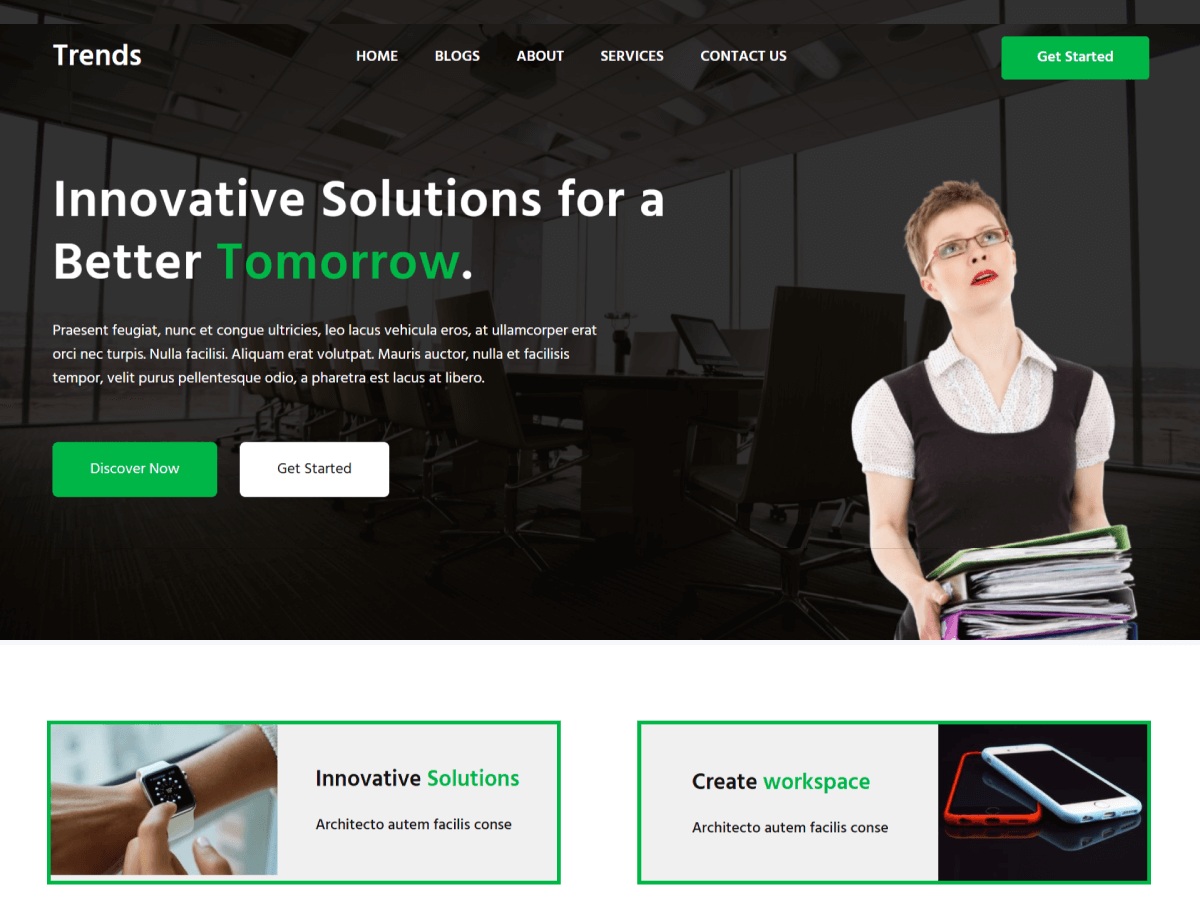
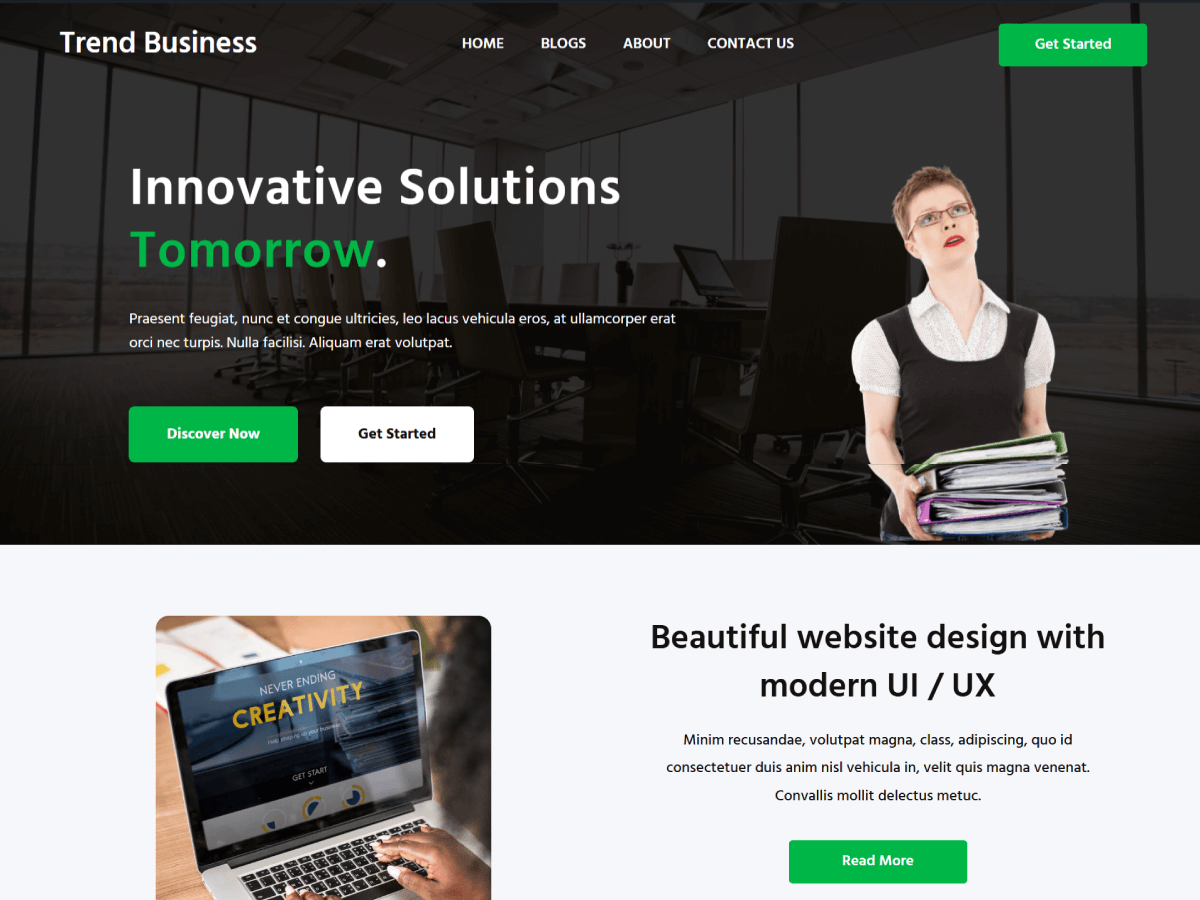
fixed

diff --git a/style.css b/style.css
@@ -7,7 +7,7 @@ Description: Trend Business is a modern, full-site editing WordPress theme desig
 Requires at least: 5.9
 Tested up to: 6.8
 Requires PHP: 7.4
-Version: 1.0.4
+Version: 1.0.5
 License: GNU General Public License v2 or later
 License URI: http://www.gnu.org/licenses/gpl-2.0.html
 Text Domain: trend-business

diff --git a/patterns/banner.php b/patterns/banner.php
@@ -3,52 +3,50 @@
  * Title: Banner
  * Slug: trend-business/banner
  * Categories: trend-business
- *
- * @package Trend Business
+  * @package Trend Business
  * @since 1.0.0
  */
-
 ?>
 <!-- wp:cover {"url":"<?php echo esc_url( get_template_directory_uri() );?>/assets/images/background.jpg","id":336,"dimRatio":80,"isUserOverlayColor":true,"minHeight":577,"minHeightUnit":"px","contentPosition":"center center","sizeSlug":"large","align":"full","style":{"spacing":{"padding":{"top":"0","bottom":"0","left":"0","right":"0"},"margin":{"top":"0","bottom":"0"},"blockGap":"0"},"color":{"duotone":"unset"}},"layout":{"type":"constrained"}} -->
-<div class="wp-block-cover alignfull" style="margin-top:0;margin-bottom:0;padding-top:0;padding-right:0;padding-bottom:0;padding-left:0;min-height:577px"><img class="wp-block-cover__image-background wp-image-336 size-large" alt="" src="<?php echo esc_url( get_template_directory_uri() );?>/assets/images/background.jpg" data-object-fit="cover"/><span aria-hidden="true" class="wp-block-cover__background has-background-dim-80 has-background-dim"></span><div class="wp-block-cover__inner-container"><!-- wp:group {"metadata":{"categories":["trend-business"],"patternName":"trend-business/header","name":"Header Front"},"style":{"spacing":{"padding":{"top":"0","bottom":"0","left":"0","right":"0"},"margin":{"top":"0","bottom":"0"},"blockGap":"0"}},"backgroundColor":"transparent","layout":{"type":"default"}} -->
-<div class="wp-block-group has-transparent-background-color has-background" style="margin-top:0;margin-bottom:0;padding-top:0;padding-right:0;padding-bottom:0;padding-left:0"><!-- wp:group {"align":"full","className":"wb-header-wrapper","style":{"spacing":{"padding":{"right":"var:preset|spacing|40","left":"var:preset|spacing|40","top":"var:preset|spacing|30","bottom":"var:preset|spacing|30"}}},"backgroundColor":"transparent","layout":{"type":"constrained"}} -->
+<div class="wp-block-cover alignfull" style="margin-top:0;margin-bottom:0;padding-top:0;padding-right:0;padding-bottom:0;padding-left:0;min-height:577px"><img class="wp-block-cover__image-background wp-image-336 size-large" alt="" src="<?php echo esc_url( get_template_directory_uri() );?>/assets/images/background.jpg" data-object-fit="cover"/><span aria-hidden="true" class="wp-block-cover__background has-background-dim-80 has-background-dim"></span><div class="wp-block-cover__inner-container"><!-- wp:group {"metadata":{"categories":["trend-business"],"patternName":"trend-business/header","name":"Header Front"},"style":{"spacing":{"padding":{"top":"0","bottom":"0","left":"var:preset|spacing|20","right":"var:preset|spacing|20"},"margin":{"top":"0","bottom":"0"},"blockGap":"0"}},"backgroundColor":"transparent","layout":{"type":"default"}} -->
+<div class="wp-block-group has-transparent-background-color has-background" style="margin-top:0;margin-bottom:0;padding-top:0;padding-right:var(--wp--preset--spacing--20);padding-bottom:0;padding-left:var(--wp--preset--spacing--20)"><!-- wp:group {"align":"full","className":"wb-header-wrapper","style":{"spacing":{"padding":{"right":"var:preset|spacing|40","left":"var:preset|spacing|40","top":"var:preset|spacing|30","bottom":"var:preset|spacing|30"}}},"backgroundColor":"transparent","layout":{"type":"constrained"}} -->
 <div class="wp-block-group alignfull wb-header-wrapper has-transparent-background-color has-background" style="padding-top:var(--wp--preset--spacing--30);padding-right:var(--wp--preset--spacing--40);padding-bottom:var(--wp--preset--spacing--30);padding-left:var(--wp--preset--spacing--40)"><!-- wp:group {"style":{"spacing":{"margin":{"top":"0","bottom":"0"},"padding":{"right":"0","left":"0","top":"0","bottom":"0"}}},"layout":{"type":"flex","flexWrap":"wrap","justifyContent":"space-between"}} -->
-<div class="wp-block-group" style="margin-top:0;margin-bottom:0;padding-top:0;padding-right:0;padding-bottom:0;padding-left:0"><!-- wp:site-title {"style":{"typography":{"fontSize":"32px","fontStyle":"normal","fontWeight":"800"}},"fontFamily":"hind"} /-->
+<div class="wp-block-group" style="margin-top:0;margin-bottom:0;padding-top:0;padding-right:0;padding-bottom:0;padding-left:0"><!-- wp:site-title {"style":{"typography":{"fontSize":"32px","fontStyle":"normal","fontWeight":"700"}},"fontFamily":"hind"} /-->
 
-<!-- wp:navigation {"style":{"typography":{"fontSize":"16px","fontStyle":"normal","fontWeight":"700","lineHeight":"1"},"layout":{"selfStretch":"fit","flexSize":null},"spacing":{"blockGap":"9px"}}} /-->
+<!-- wp:navigation {"ref":4,"style":{"typography":{"fontSize":"16px","fontStyle":"normal","fontWeight":"700","lineHeight":"1"},"layout":{"selfStretch":"fit","flexSize":null},"spacing":{"blockGap":"9px"}}} /-->
 
 <!-- wp:buttons -->
 <div class="wp-block-buttons"><!-- wp:button -->
-<div class="wp-block-button"><a class="wp-block-button__link wp-element-button"><?php echo esc_html__( 'Get Started', 'trend-business' ); ?></a></div>
+<div class="wp-block-button"><a class="wp-block-button__link wp-element-button"><?php echo esc_html__('Get Started', 'trend-business'); ?></a></div>
 <!-- /wp:button --></div>
 <!-- /wp:buttons --></div>
 <!-- /wp:group --></div>
 <!-- /wp:group --></div>
 <!-- /wp:group -->
 
-<!-- wp:columns {"style":{"spacing":{"padding":{"top":"var:preset|spacing|80"}}}} -->
-<div class="wp-block-columns" style="padding-top:var(--wp--preset--spacing--80)"><!-- wp:column {"verticalAlignment":"top","width":"70%"} -->
-<div class="wp-block-column is-vertically-aligned-top" style="flex-basis:70%"><!-- wp:group {"className":"wb-banner-content","style":{"spacing":{"blockGap":"var:preset|spacing|50","padding":{"top":"0","bottom":"0","left":"var:preset|spacing|40","right":"var:preset|spacing|40"}}},"layout":{"type":"constrained"}} -->
+<!-- wp:columns {"style":{"spacing":{"padding":{"top":"var:preset|spacing|80","right":"var:preset|spacing|80","left":"var:preset|spacing|80"},"blockGap":{"top":"var:preset|spacing|20","left":"var:preset|spacing|80"}}}} -->
+<div class="wp-block-columns" style="padding-top:var(--wp--preset--spacing--80);padding-right:var(--wp--preset--spacing--80);padding-left:var(--wp--preset--spacing--80)"><!-- wp:column {"verticalAlignment":"top","width":"70%","style":{"spacing":{"padding":{"right":"var:preset|spacing|70"}}}} -->
+<div class="wp-block-column is-vertically-aligned-top" style="padding-right:var(--wp--preset--spacing--70);flex-basis:70%"><!-- wp:group {"className":"wb-banner-content","style":{"spacing":{"blockGap":"var:preset|spacing|50","padding":{"top":"0","bottom":"0","left":"var:preset|spacing|40","right":"var:preset|spacing|40"}}},"layout":{"type":"constrained"}} -->
 <div class="wp-block-group wb-banner-content" style="padding-top:0;padding-right:var(--wp--preset--spacing--40);padding-bottom:0;padding-left:var(--wp--preset--spacing--40)"><!-- wp:heading {"style":{"typography":{"fontStyle":"normal","fontWeight":"700","fontSize":"3.5rem","lineHeight":"1.2","letterSpacing":"1px"}},"fontFamily":"hind"} -->
-<h2 class="wp-block-heading has-hind-font-family" style="font-size:3.5rem;font-style:normal;font-weight:700;letter-spacing:1px;line-height:1.2"><?php echo esc_html__( 'Innovative Solutions for a Better', 'trend-business' ); ?><mark style="background-color:rgba(0, 0, 0, 0)" class="has-inline-color has-theme-color"> <?php echo esc_html__( 'Tomorrow', 'trend-business' ); ?></mark>.</h2>
+<h2 class="wp-block-heading has-hind-font-family" style="font-size:3.5rem;font-style:normal;font-weight:700;letter-spacing:1px;line-height:1.2"><?php echo esc_html__('Innovative Solutions', 'trend-business'); ?> <mark style="background-color:rgba(0, 0, 0, 0)" class="has-inline-color has-theme-color"><?php echo esc_html__('Tomorrow', 'trend-business'); ?></mark>.</h2>
 <!-- /wp:heading -->
 
 <!-- wp:group {"style":{"spacing":{"blockGap":"0","margin":{"top":"var:preset|spacing|40","bottom":"0"},"padding":{"right":"0","left":"0","top":"0","bottom":"0"}},"typography":{"lineHeight":"1.3"}},"layout":{"type":"constrained","contentSize":"580px","justifyContent":"left"}} -->
 <div class="wp-block-group" style="margin-top:var(--wp--preset--spacing--40);margin-bottom:0;padding-top:0;padding-right:0;padding-bottom:0;padding-left:0;line-height:1.3"><!-- wp:paragraph {"style":{"typography":{"lineHeight":"1.6","fontStyle":"normal","fontWeight":"400"},"spacing":{"margin":{"top":"var:preset|spacing|50","bottom":"var:preset|spacing|70"}}},"fontSize":"small"} -->
-<p class="has-small-font-size" style="margin-top:var(--wp--preset--spacing--50);margin-bottom:var(--wp--preset--spacing--70);font-style:normal;font-weight:400;line-height:1.6"><?php echo esc_html__( 'Praesent feugiat, nunc et congue ultricies, leo lacus vehicula eros, at ullamcorper erat orci nec turpis. Nulla facilisi. Aliquam erat volutpat. Mauris auctor, nulla et facilisis tempor, velit purus pellentesque odio, a pharetra est lacus at libero.', 'trend-business' ); ?></p>
+<p class="has-small-font-size" style="margin-top:var(--wp--preset--spacing--50);margin-bottom:var(--wp--preset--spacing--70);font-style:normal;font-weight:400;line-height:1.6"><?php echo esc_html__('Praesent feugiat, nunc et congue ultricies, leo lacus vehicula eros, at ullamcorper erat orci nec turpis. Nulla facilisi. Aliquam erat volutpat.', 'trend-business'); ?></p>
 <!-- /wp:paragraph --></div>
 <!-- /wp:group -->
 
 <!-- wp:group {"layout":{"type":"flex","flexWrap":"wrap"}} -->
 <div class="wp-block-group"><!-- wp:buttons -->
-<div class="wp-block-buttons"><!-- wp:button {"backgroundColor":"Theme","style":{"spacing":{"padding":{"left":"var:preset|spacing|60","right":"var:preset|spacing|60","top":"var:preset|spacing|30","bottom":"var:preset|spacing|30"}},"border":{"radius":"6px"},"typography":{"fontStyle":"normal","fontWeight":"400"}},"fontSize":"small","fontFamily":"hind"} -->
-<div class="wp-block-button"><a class="wp-block-button__link has-theme-background-color has-background has-hind-font-family has-small-font-size has-custom-font-size wp-element-button" style="border-radius:6px;padding-top:var(--wp--preset--spacing--30);padding-right:var(--wp--preset--spacing--60);padding-bottom:var(--wp--preset--spacing--30);padding-left:var(--wp--preset--spacing--60);font-style:normal;font-weight:400"><?php echo esc_html__( 'Discover Now', 'trend-business' ); ?></a></div>
+<div class="wp-block-buttons"><!-- wp:button {"backgroundColor":"Theme","style":{"spacing":{"padding":{"left":"var:preset|spacing|60","right":"var:preset|spacing|60","top":"var:preset|spacing|30","bottom":"var:preset|spacing|30"}},"border":{"radius":"6px"},"typography":{"fontStyle":"normal","fontWeight":"600"}},"fontSize":"small","fontFamily":"hind"} -->
+<div class="wp-block-button"><a class="wp-block-button__link has-theme-background-color has-background has-hind-font-family has-small-font-size has-custom-font-size wp-element-button" style="border-radius:6px;padding-top:var(--wp--preset--spacing--30);padding-right:var(--wp--preset--spacing--60);padding-bottom:var(--wp--preset--spacing--30);padding-left:var(--wp--preset--spacing--60);font-style:normal;font-weight:600"><?php echo esc_html__('Discover Now', 'trend-business'); ?></a></div>
 <!-- /wp:button --></div>
 <!-- /wp:buttons -->
 
 <!-- wp:buttons -->
-<div class="wp-block-buttons"><!-- wp:button {"backgroundColor":"base","textColor":"primary","style":{"spacing":{"padding":{"left":"var:preset|spacing|60","right":"var:preset|spacing|60","top":"var:preset|spacing|30","bottom":"var:preset|spacing|30"}},"border":{"radius":"6px"},"typography":{"fontStyle":"normal","fontWeight":"400"},"elements":{"link":{"color":{"text":"var:preset|color|primary"}}}},"fontSize":"small","fontFamily":"hind"} -->
-<div class="wp-block-button"><a class="wp-block-button__link has-primary-color has-base-background-color has-text-color has-background has-link-color has-hind-font-family has-small-font-size has-custom-font-size wp-element-button" style="border-radius:6px;padding-top:var(--wp--preset--spacing--30);padding-right:var(--wp--preset--spacing--60);padding-bottom:var(--wp--preset--spacing--30);padding-left:var(--wp--preset--spacing--60);font-style:normal;font-weight:400"><?php echo esc_html__( 'Get Started', 'trend-business' ); ?></a></div>
+<div class="wp-block-buttons"><!-- wp:button {"backgroundColor":"base","textColor":"primary","style":{"spacing":{"padding":{"left":"var:preset|spacing|60","right":"var:preset|spacing|60","top":"var:preset|spacing|30","bottom":"var:preset|spacing|30"}},"border":{"radius":"6px"},"typography":{"fontStyle":"normal","fontWeight":"600"},"elements":{"link":{"color":{"text":"var:preset|color|primary"}}}},"fontSize":"small","fontFamily":"hind"} -->
+<div class="wp-block-button"><a class="wp-block-button__link has-primary-color has-base-background-color has-text-color has-background has-link-color has-hind-font-family has-small-font-size has-custom-font-size wp-element-button" style="border-radius:6px;padding-top:var(--wp--preset--spacing--30);padding-right:var(--wp--preset--spacing--60);padding-bottom:var(--wp--preset--spacing--30);padding-left:var(--wp--preset--spacing--60);font-style:normal;font-weight:600"><?php echo esc_html__('Get Started', 'trend-business'); ?></a></div>
 <!-- /wp:button --></div>
 <!-- /wp:buttons --></div>
 <!-- /wp:group --></div>
